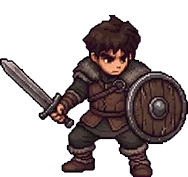
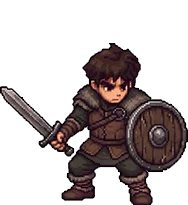
Block frame: tracking ssblock at native size (188x205), feet point updated
Claude-Session: https://claude.ai/code/session_01W4v7cyzS6Fr8aMVaGgywWE

diff --git a/index.html b/index.html
@@ -1116,17 +1116,17 @@
     </div>
 
     <!-- SCRIPTS -->
-    <script src="data/items.js?v=20261104f"></script>
+    <script src="data/items.js?v=20261104g"></script>
     <script src="data/monsters.js"></script>
-    <script src="data/maps.js?v=20261104f"></script>
+    <script src="data/maps.js?v=20261104g"></script>
     <script src="https://cdn.jsdelivr.net/npm/@supabase/supabase-js@2.45.4/dist/umd/supabase.js"></script>
-    <script src="js/player.js?v=20261104f"></script>
-    <script src="js/audio.js?v=20261104f"></script>
-    <script src="js/cloud.js?v=20261104f"></script>
-    <script src="js/combat.js?v=20261104f"></script>
-    <script src="js/ui.js?v=20261104f"></script>
-    <script src="js/town.js?v=20261104f"></script>
-    <script src="js/loader.js?v=20261104f"></script>
+    <script src="js/player.js?v=20261104g"></script>
+    <script src="js/audio.js?v=20261104g"></script>
+    <script src="js/cloud.js?v=20261104g"></script>
+    <script src="js/combat.js?v=20261104g"></script>
+    <script src="js/ui.js?v=20261104g"></script>
+    <script src="js/town.js?v=20261104g"></script>
+    <script src="js/loader.js?v=20261104g"></script>
 
 <script>
     // Called by js/loader.js once the loading screen has finished preloading

diff --git a/js/ui.js b/js/ui.js
@@ -679,7 +679,7 @@ const COMBAT_POSE_SETS = {
         DEAD1: { src: 'assets/cha/chadead1_q85.webp', w: 179, h: 155, fx: 135.5, fy: 150 }, // no sword art yet: base falling frame
         DEAD2: { src: 'assets/cha/chadead2_q85.webp', w: 186, h: 111, fx: 110, fy: 109 },   // no sword art yet: base ground frame
         REACT: {
-            block: { src: 'assets/cha/swordandshield/ssblock_q85.webp', w: 188, h: 177, fx: 109.2, fy: 177 },
+            block: { src: 'assets/cha/swordandshield/ssblock_q85.webp', w: 188, h: 205, fx: 109.2, fy: 205 },
             dodge: { src: 'assets/cha/chadodge_q85.webp', w: 152, h: 153, fx: 102, fy: 151 }
         }
     }
